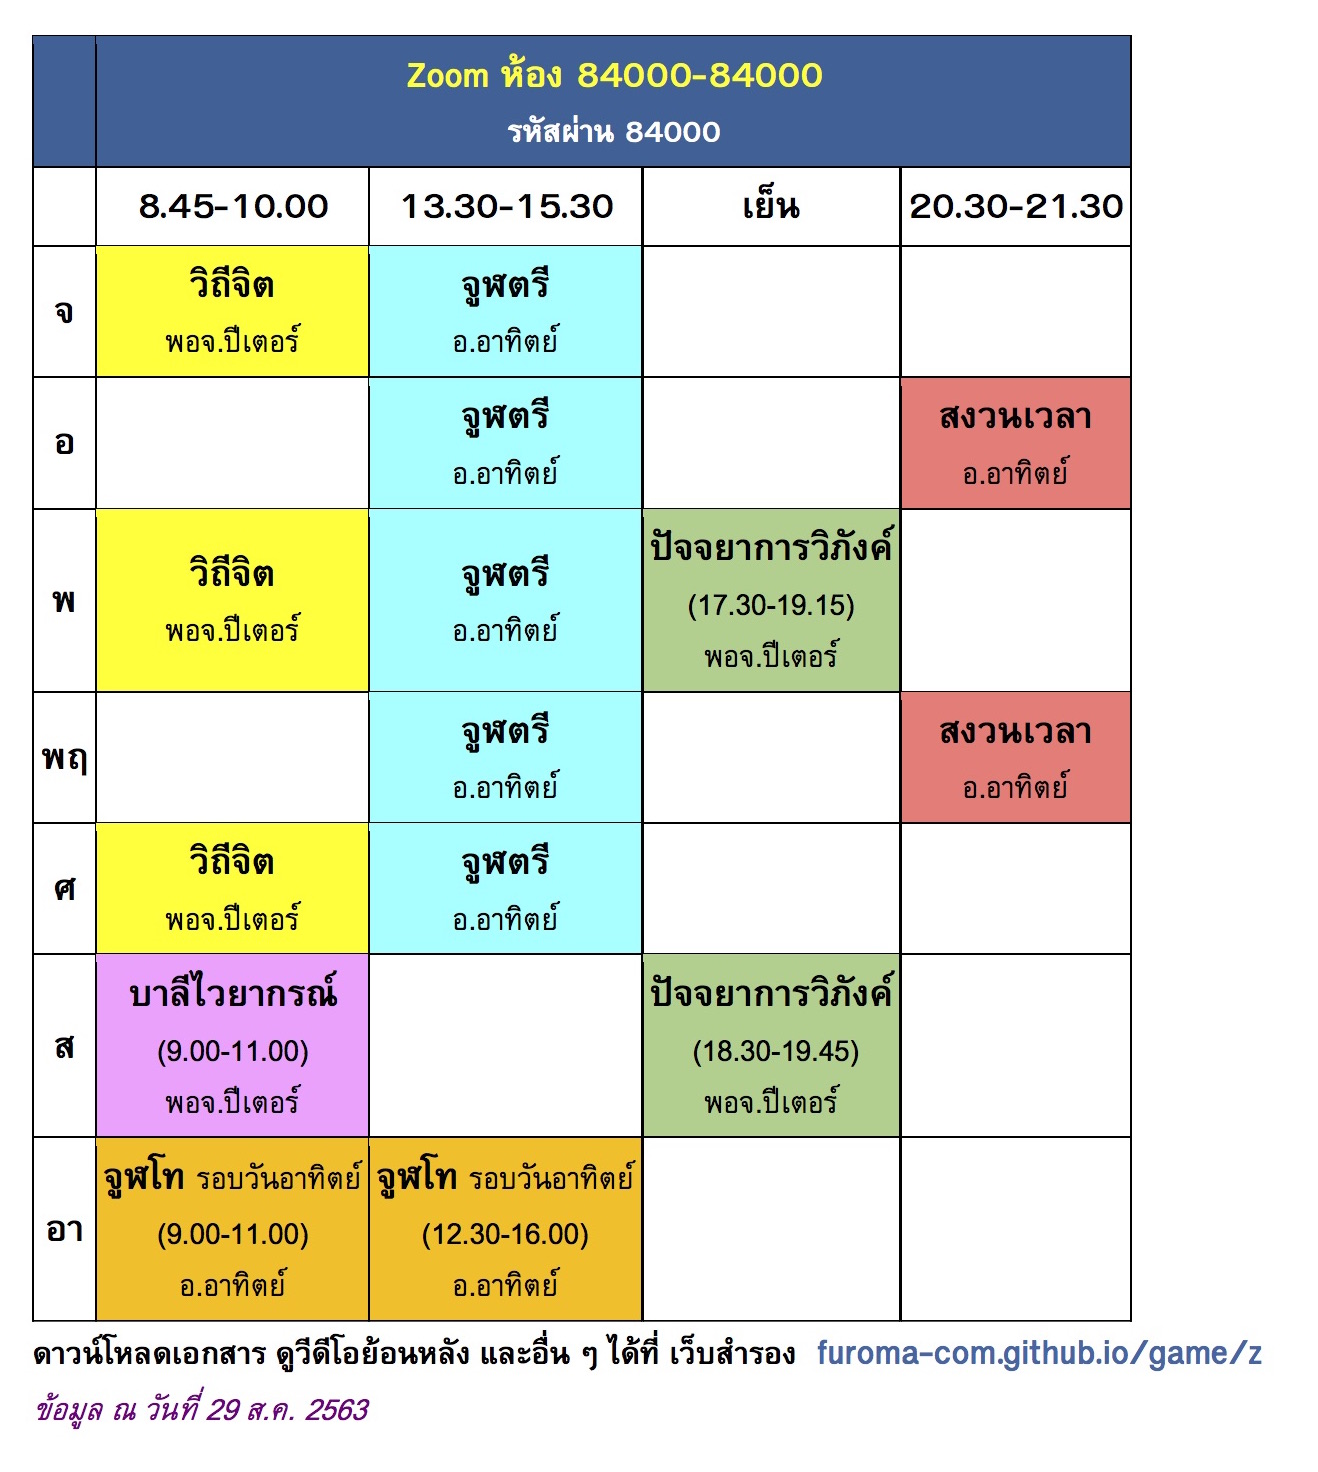
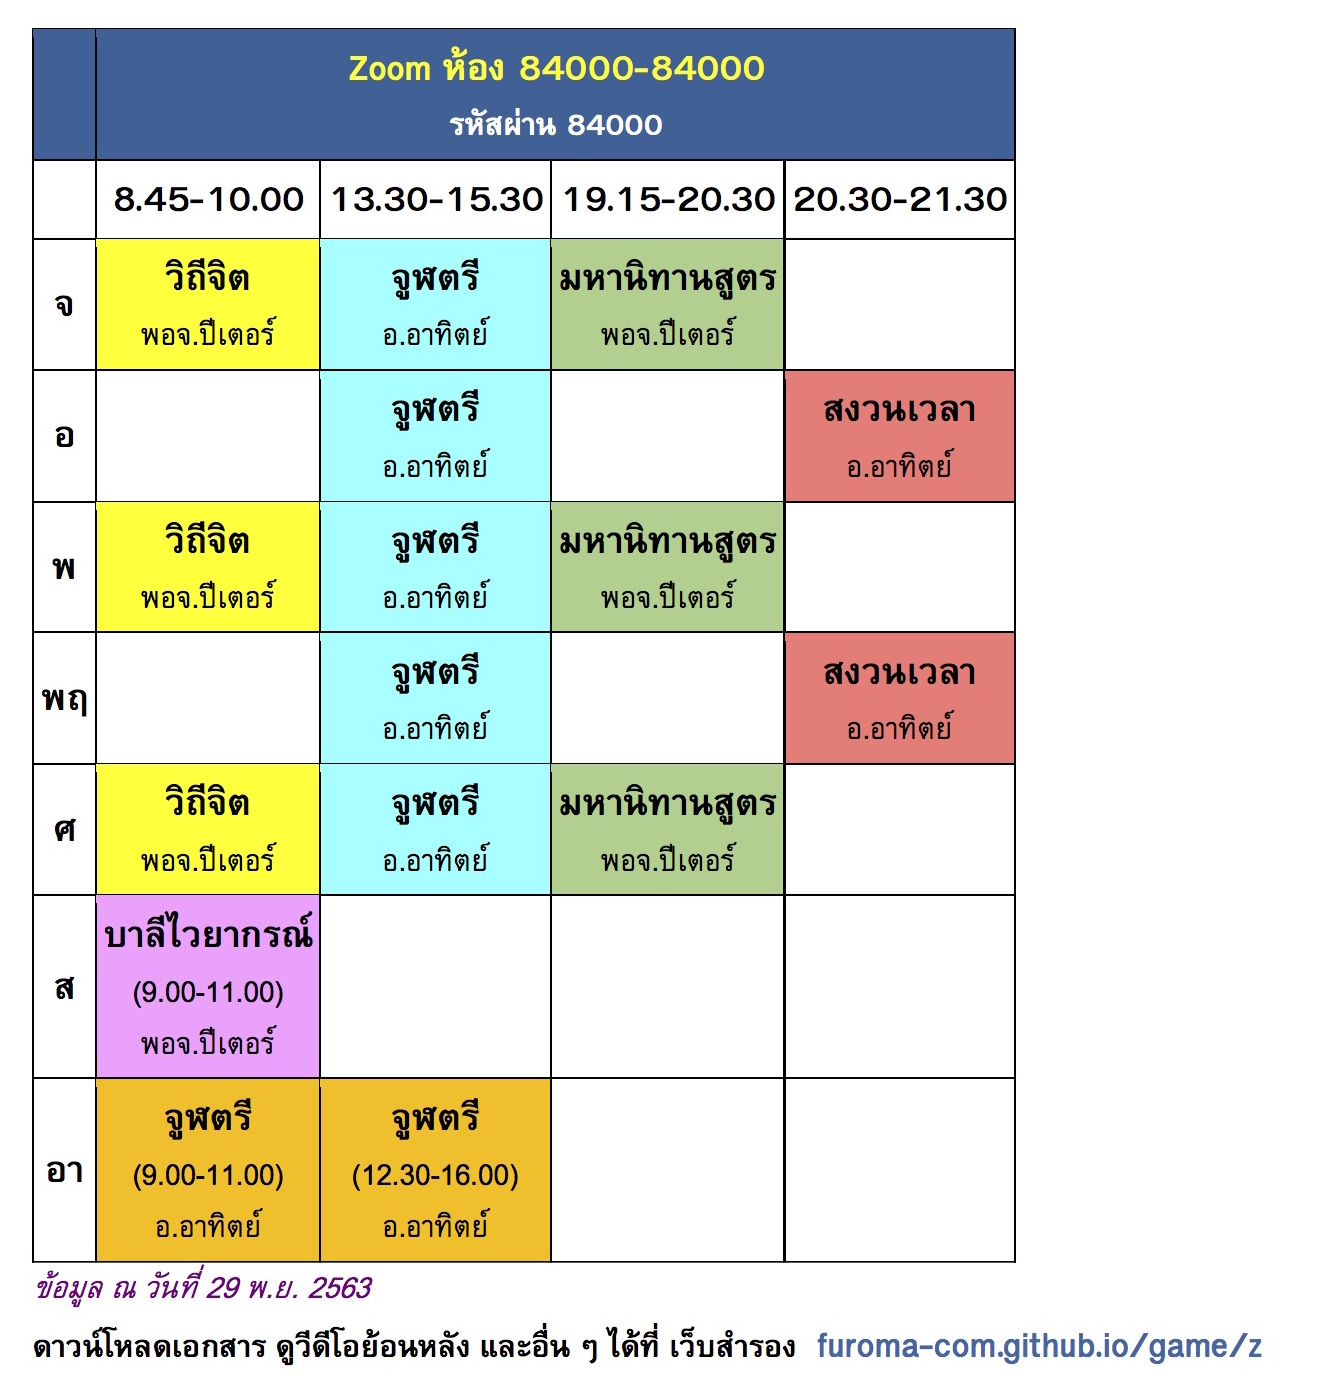
2020-11-29

diff --git a/z/index.html b/z/index.html
@@ -61,8 +61,8 @@
 <B>ปัจจยาการวิภังค์</B>: เลื่อนคลาสวันที่ 15 เม.ย. เป็นวันที่ 14 เม.ย.</SPAN><!---->
 
 <TABLE cellpadding=0 cellspacing=0 align=center><TR valign=top><TD>
-<A href=42000.jpg?0829><IMG border=0 src="42000.jpg?0829" width=500px height=600px /></A>
-<A href=84000.jpg?0829><IMG border=0 src="84000.jpg?0829" width=500px height=600px /></A></TABLE>
+<A href=42000.jpg?1129><IMG border=0 src="42000.jpg?1129" width=500px height=600px /></A>
+<A href=84000.jpg?1129><IMG border=0 src="84000.jpg?1129" width=500px height=600px /></A></TABLE>
 (คลิกที่รูป เพื่อดูตารางสอนที่ใหญ่ขึ้น)<BR/>
 
 <BR/><SPAN style="text-align:center; color:magenta; font-size:22px; font-weight:bold;">สื่อการเรียน</SPAN>
